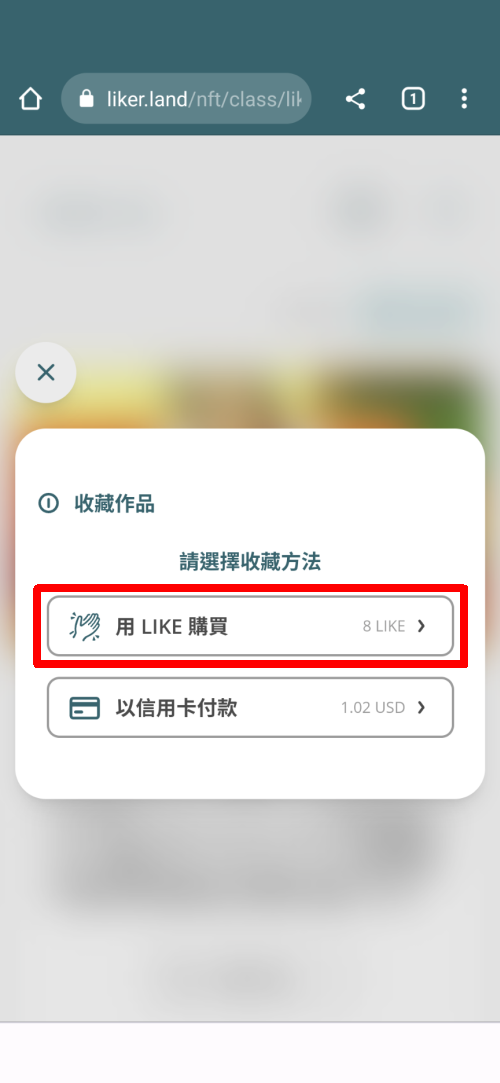
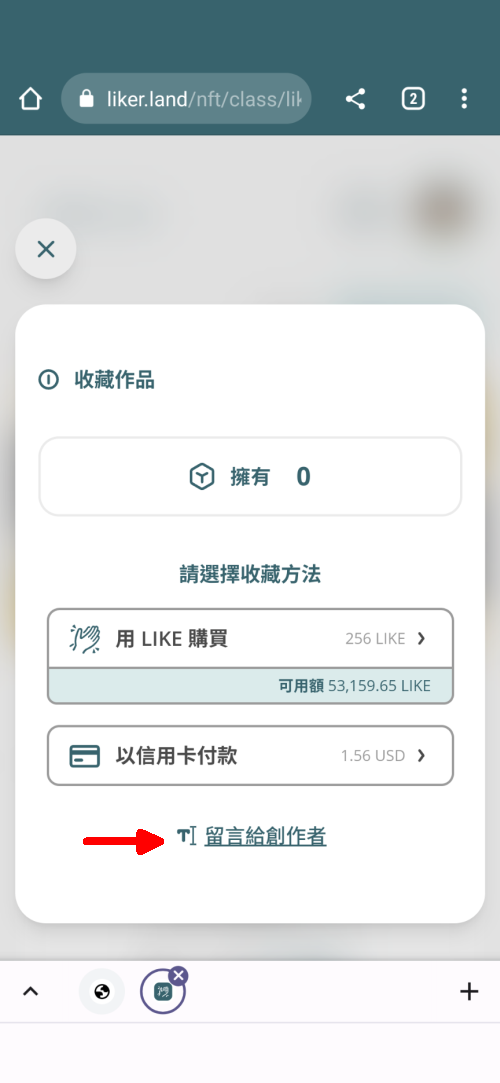
GitBook: [#4295] 收集 Writing NFT

diff --git a/general-guides/writing-nft/collect-writing-nft/README.md b/general-guides/writing-nft/collect-writing-nft/README.md
@@ -132,11 +132,11 @@ description: 如何收集 Writing NFT
 
 <figure><img src="../../../.gitbook/assets/Buy NFT 04.png" alt=""><figcaption></figcaption></figure>
 
-點 Writing NFT 價格或「立即收藏」後彈出收藏作品頁面，點「留言給創作者」並輸入給創作者的訊息。
+點 Writing NFT 價格或「立即收藏」後彈出收藏作品頁面，點「留言給創作者」並輸入給創作者的訊息（非必須）。
 
 <figure><img src="../../../.gitbook/assets/Buy NFT 20.png" alt=""><figcaption></figcaption></figure>
 
-輸入完成後點「用 LIKE 購買」。
+輸入完成後又或者直接點「用 LIKE 購買」。
 
 <figure><img src="../../../.gitbook/assets/Buy NFT 20.1.png" alt=""><figcaption></figcaption></figure>
 
@@ -150,11 +150,11 @@ description: 如何收集 Writing NFT
 
 <figure><img src="../../../.gitbook/assets/Buy NFT 21.png" alt=""><figcaption></figcaption></figure>
 
-點 Writing NFT 價格或「立即收藏」後彈出收藏作品頁面，點「留言給創作者」並輸入給創作者的訊息。
+點 Writing NFT 價格或「立即收藏」後彈出收藏作品頁面，點「留言給創作者」並輸入給創作者的訊息（非必須）。
 
 <figure><img src="../../../.gitbook/assets/Buy NFT 20.png" alt=""><figcaption></figcaption></figure>
 
-輸入完成後點「用 LIKE 購買」。
+輸入完成後又或者直接點「用 LIKE 購買」。
 
 <figure><img src="../../../.gitbook/assets/Buy NFT 20.1.png" alt=""><figcaption></figcaption></figure>
 
@@ -184,11 +184,11 @@ description: 如何收集 Writing NFT
 
 <figure><img src="../../../.gitbook/assets/Buy NFT 10.png" alt=""><figcaption></figcaption></figure>
 
-點 Writing NFT 價格或「立即收藏」後彈出收藏作品頁面，點「留言給創作者」並輸入給創作者的訊息。
+點 Writing NFT 價格或「立即收藏」後彈出收藏作品頁面，點「留言給創作者」並輸入給創作者的訊息（非必須）。
 
 <figure><img src="../../../.gitbook/assets/Buy NFT 20.png" alt=""><figcaption></figcaption></figure>
 
-點「用 LIKE 購買」後 Liker Land app 彈出 Wallet Connect 視窗，再點「允許」確認購買。
+輸入完成後又或者直接點「用 LIKE 購買」。Liker Land app 將彈出 Wallet Connect 視窗，再點「允許」確認購買。
 
 <figure><img src="../../../.gitbook/assets/Buy NFT 20.1.png" alt=""><figcaption></figcaption></figure>
 
@@ -206,9 +206,13 @@ description: 如何收集 Writing NFT
 
 <figure><img src="../../../.gitbook/assets/Collect Writing NFT Liker land app 1.png" alt=""><figcaption></figcaption></figure>
 
-**步驟二**：點 Writing NFT 價格或「立即收藏」後彈出收藏作品頁面，點「用 LIKE 購買」。
+**步驟二**：點 Writing NFT 價格或「立即收藏」後彈出收藏作品頁面，點「留言給創作者」並輸入給創作者的訊息（非必須）。
 
 <figure><img src="../../../.gitbook/assets/Collect Writing NFT Liker land app 2.png" alt=""><figcaption></figcaption></figure>
+
+輸入完成後又或者直接點「用 LIKE 購買」。
+
+<figure><img src="../../../.gitbook/assets/Collect Writing NFT Liker land app 2.1.png" alt=""><figcaption></figcaption></figure>
 
 **步驟三**：彈出視窗選擇 Liker ID，點擊並連接。
 
